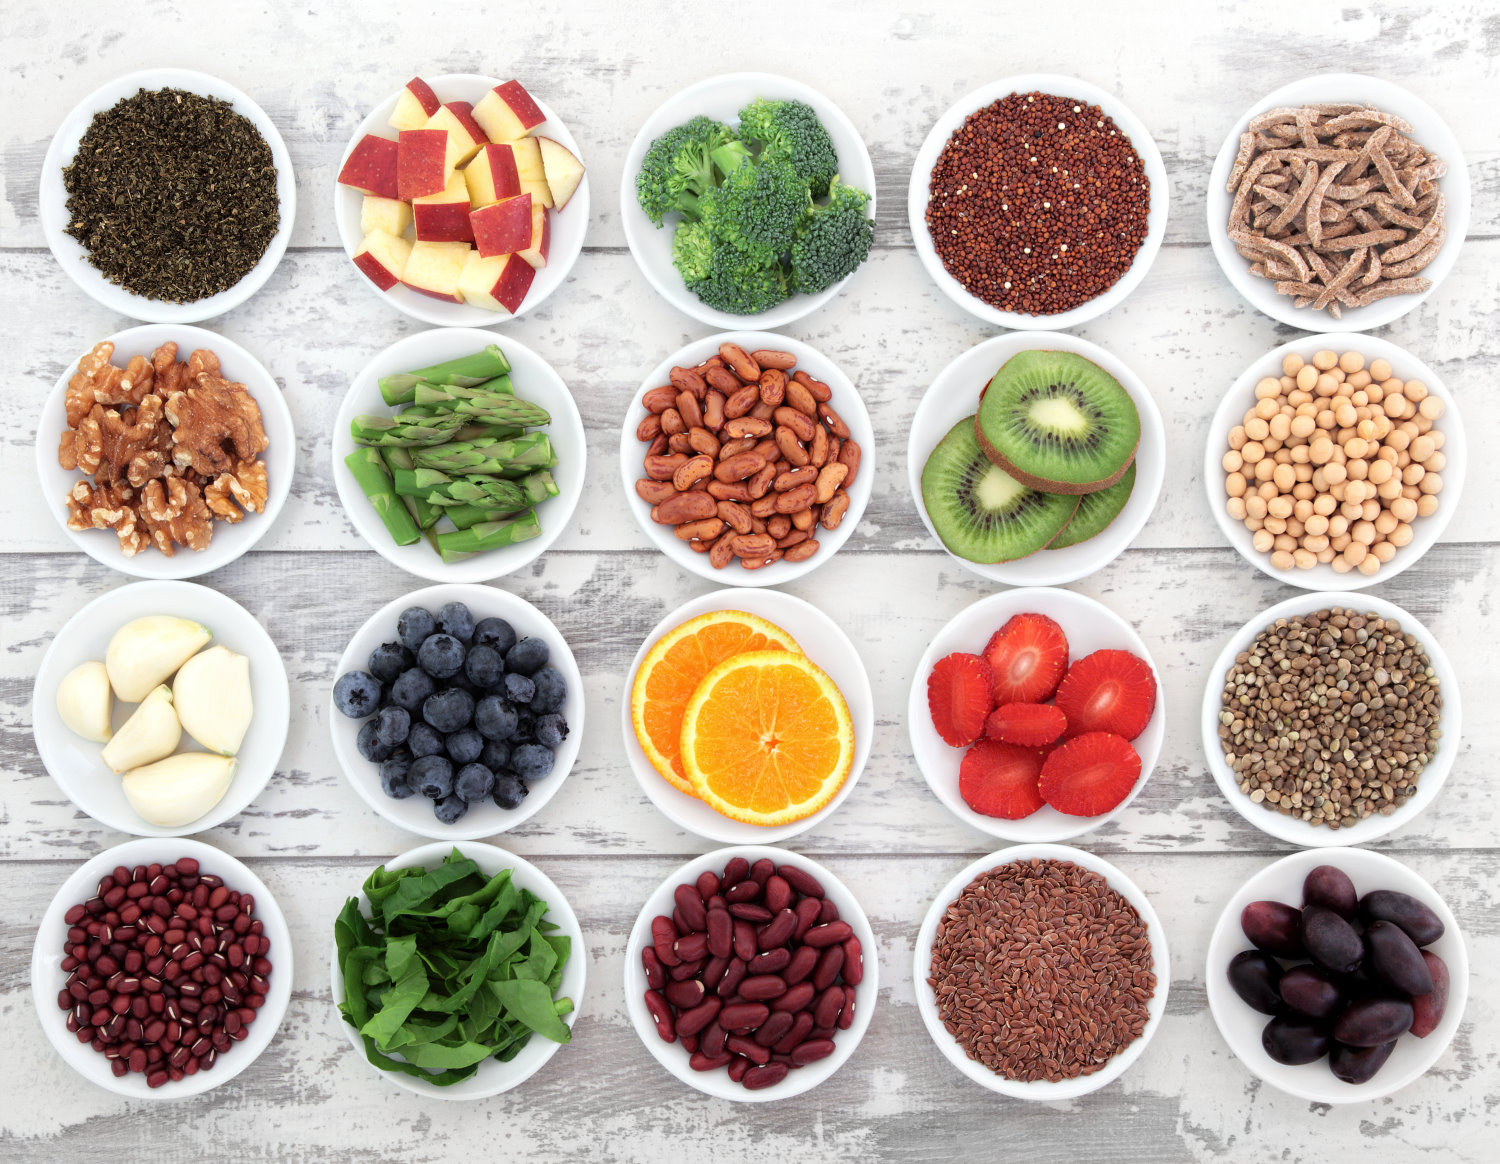
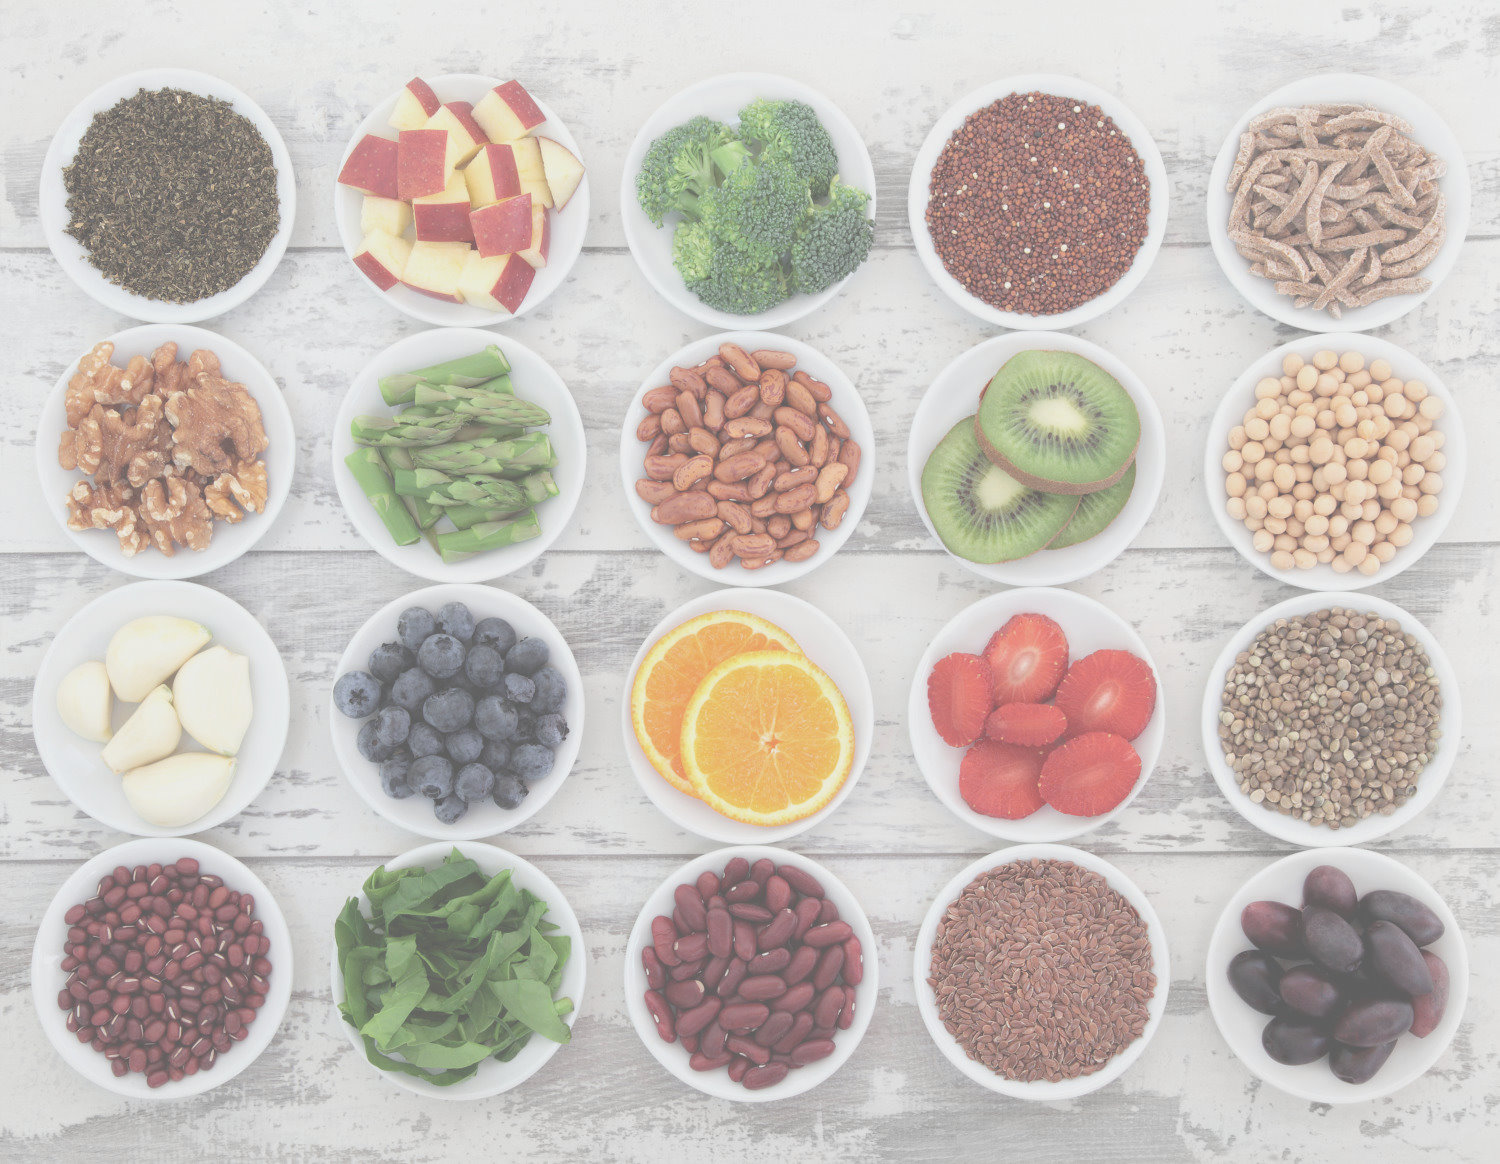
ozadje vitamini

diff --git a/www/strani/vitamin.html b/www/strani/vitamin.html
@@ -34,7 +34,7 @@
 		</script>
     </head>
 	
-   <body style="background: url('../img/ozadjeViM.jpg'); background-size: 100% 100%; background-repeat: no-repeat;opacity: 0.4; filter: alpha(opacity=40);">
+   <body style="background: url('../img/ozadjeViM.jpg'); background-size: cover; background-repeat: no-repeat;" height="100%">
 		<div id="content">
 			<!-- Od tukej naprej -->
 			<div id="page"></div>

diff --git a/www/strani/mineral.html b/www/strani/mineral.html
@@ -34,7 +34,7 @@
 		</script>
     </head>
 	
-    <body style="background: url('../img/ozadjeViM.jpg'); background-size: 100% 100%; background-repeat: no-repeat;opacity: 0.4; filter: alpha(opacity=40);">
+    <body style="background: url('../img/ozadjeViM.jpg'); background-size: 100% 100%; background-repeat: no-repeat;">
 		<div id="content">
 			<!-- Od tukej naprej -->
 			<div id="page"></div>
